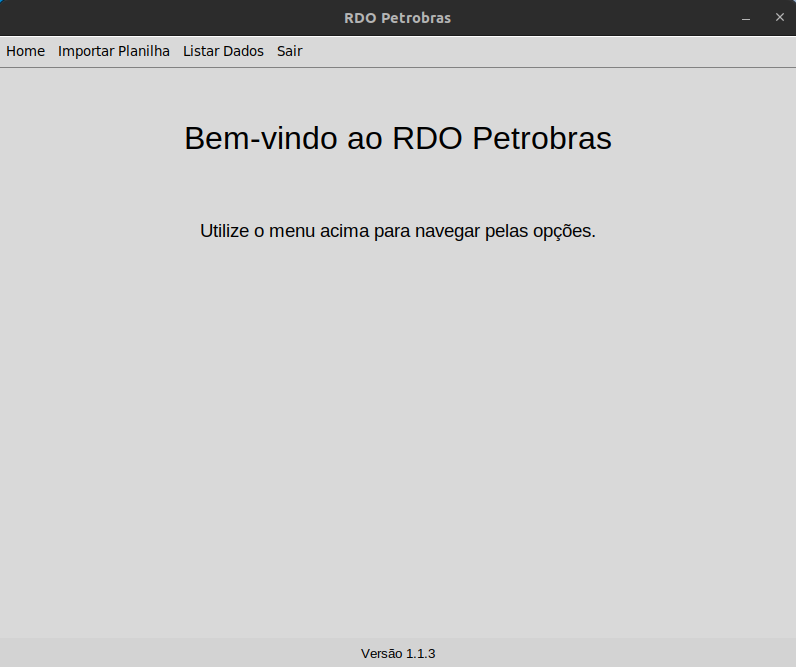
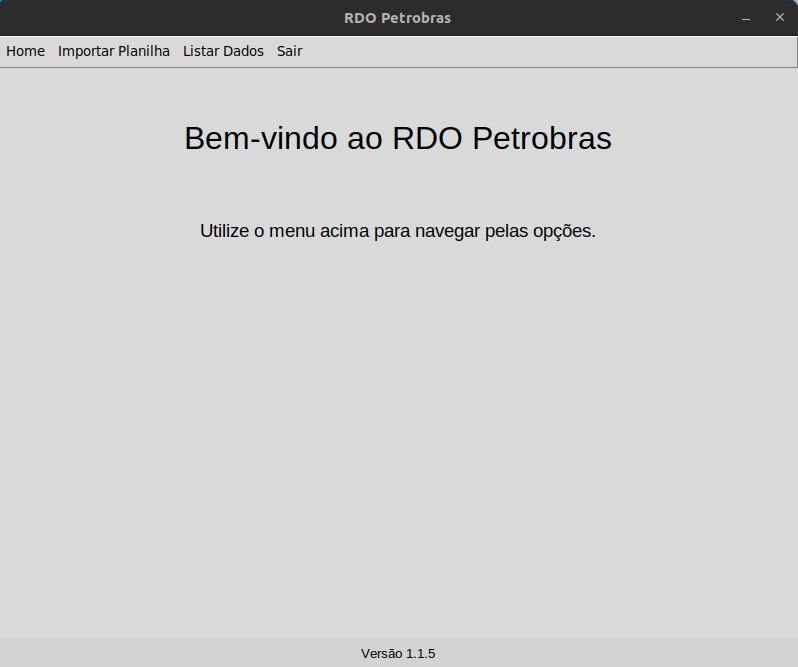
Atualização de screenshot

diff --git a/app/home.py b/app/home.py
@@ -16,5 +16,5 @@ def show_home(frame):
     footer_frame.pack(side=tk.BOTTOM, fill=tk.X)  # Posiciona o rodapé na parte inferior
 
     # Label para a versão
-    version_label = tk.Label(footer_frame, text="Versão 1.1.3", font=("Arial", 10), bg="#d3d3d3")
+    version_label = tk.Label(footer_frame, text="Versão 1.1.5", font=("Arial", 10), bg="#d3d3d3")
     version_label.pack(side=tk.BOTTOM, pady=5)  # Ajusta o padding para centralizar a label no rodapé
